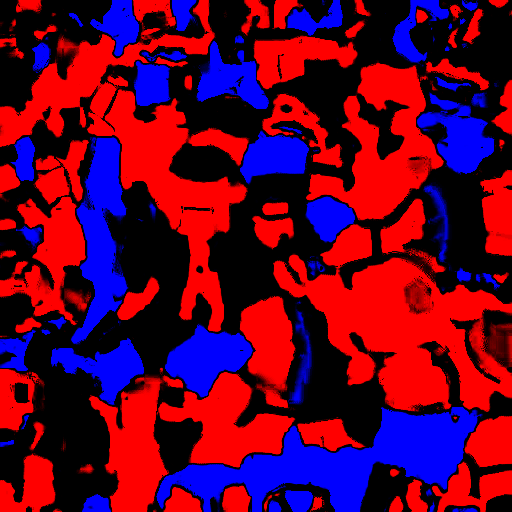
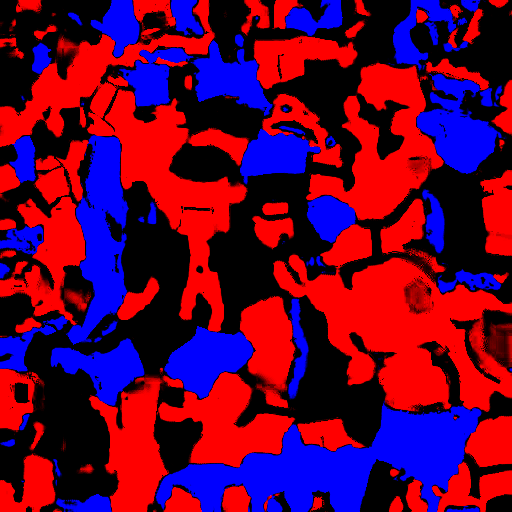
修复一些换肤色的表现细节

diff --git a/scripts/render-cartoon-skin-validation.py b/scripts/render-cartoon-skin-validation.py
@@ -1,0 +1,88 @@
+"""在独立后台 Blender 中审计和渲染，不切换正在编辑的场景。"""
+import bpy, sys, json, argparse
+import numpy as np
+from pathlib import Path
+from mathutils import Vector, Quaternion
+if not bpy.app.background:
+    raise RuntimeError('只允许在独立后台 Blender 中执行验证渲染。')
+parser=argparse.ArgumentParser(description='验证原色、深肤色、五种装备颜色和两个动作。')
+parser.add_argument('--workdir', type=Path, required=True)
+parser.add_argument('--stage', choices=('before','after'), default='after')
+parser.add_argument('--ids', nargs='+', type=int, default=[5,6,8,9,10,11,12])
+args=parser.parse_args(sys.argv[sys.argv.index('--')+1:])
+WORK=args.workdir.resolve()
+ROOT=Path(__file__).resolve().parents[1]
+stage=args.stage
+ids=args.ids
+for i in ids:
+    name=f'CartonSwimmer{i}'; folder=WORK/name
+    bpy.ops.wm.read_factory_settings(use_empty=True)
+    bpy.ops.import_scene.gltf(filepath=str(folder/(name+'.glb')))
+    mesh=next(o for o in bpy.context.scene.objects if o.type=='MESH')
+    rig=next(o for o in bpy.context.scene.objects if o.type=='ARMATURE')
+    scene=bpy.context.scene
+    scene.render.engine='CYCLES';scene.cycles.samples=4;scene.cycles.use_denoising=False
+    scene.render.resolution_x=600;scene.render.resolution_y=660;scene.render.resolution_percentage=100
+    scene.render.image_settings.file_format='PNG'
+    scene.world=bpy.data.worlds.new('验证背景');scene.world.use_nodes=True
+    scene.world.node_tree.nodes['Background'].inputs[0].default_value=(0.055,0.065,0.082,1)
+    scene.view_settings.view_transform='Standard';scene.view_settings.look='None'
+    camera=bpy.data.objects.new('验证相机',bpy.data.cameras.new('验证相机'));scene.collection.objects.link(camera);scene.camera=camera
+    camera.data.type='ORTHO';camera.data.ortho_scale=1.22
+    material=bpy.data.materials.new('验证材质');material.use_nodes=True
+    nodes=material.node_tree.nodes;nodes.clear();links=material.node_tree.links
+    tex=nodes.new('ShaderNodeTexImage');tex.interpolation='Linear'
+    emission=nodes.new('ShaderNodeEmission');output=nodes.new('ShaderNodeOutputMaterial')
+    links.new(emission.outputs[0],output.inputs[0])
+    # 对底图和遮罩分别做双线性采样，然后在线性空间执行实际换色公式。
+    base_path=folder/'base.png'
+    if not base_path.exists():base_path=next(folder.glob('base-source.*'))
+    base_image=bpy.data.images.load(str(base_path))
+    mask_image=bpy.data.images.load(str(folder/(name+'ColorMask.png' if stage=='before' else 'candidate.png')))
+    mask_image.colorspace_settings.name='Non-Color'
+    mask_node=nodes.new('ShaderNodeTexImage');mask_node.image=mask_image;mask_node.interpolation='Linear'
+    separate=nodes.new('ShaderNodeSeparateColor');links.new(mask_node.outputs[0],separate.inputs[0])
+    def math_node(op,left,right=None):
+        node=nodes.new('ShaderNodeMath');node.operation=op
+        for index,value in enumerate((left,right)):
+            if value is None:continue
+            if isinstance(value,(float,int)):node.inputs[index].default_value=value
+            else:links.new(value,node.inputs[index])
+        return node.outputs[0]
+    dot=nodes.new('ShaderNodeVectorMath');dot.operation='DOT_PRODUCT';dot.inputs[1].default_value=(.2126,.7152,.0722)
+    links.new(tex.outputs[0],dot.inputs[0])
+    lum=math_node('MINIMUM',math_node('DIVIDE',dot.outputs['Value'],.42),1.)
+    bright=math_node('MINIMUM',math_node('ADD',math_node('MULTIPLY',math_node('SQRT',lum),.76),.34),1.08)
+    gear_bright=math_node('ADD',math_node('MULTIPLY',bright,.1),.9)
+    ramp=nodes.new('ShaderNodeValToRGB');ramp.color_ramp.interpolation='EASE'
+    ramp.color_ramp.elements[0].position=.015;ramp.color_ramp.elements[1].position=.12
+    links.new(separate.outputs['Red'],ramp.inputs[0])
+    suit_scale=nodes.new('ShaderNodeVectorMath');suit_scale.operation='SCALE';links.new(gear_bright,suit_scale.inputs['Scale'])
+    skin_scale=nodes.new('ShaderNodeVectorMath');skin_scale.operation='SCALE';links.new(bright,skin_scale.inputs['Scale'])
+    def lin(rgb):return tuple(v/12.92 if v<=.04045 else ((v+.055)/1.055)**2.4 for v in [x/255 for x in rgb])
+    skin_scale.inputs[0].default_value=lin((91,61,45))
+    suit_mix=nodes.new('ShaderNodeMixRGB');skin_mix=nodes.new('ShaderNodeMixRGB')
+    links.new(ramp.outputs[0],suit_mix.inputs[0]);links.new(tex.outputs[0],suit_mix.inputs[1]);links.new(suit_scale.outputs[0],suit_mix.inputs[2])
+    links.new(separate.outputs['Blue'],skin_mix.inputs[0]);links.new(suit_mix.outputs[0],skin_mix.inputs[1]);links.new(skin_scale.outputs[0],skin_mix.inputs[2])
+    mesh.data.materials[0]=material
+    def render(tag,view):
+        camera.location={'front':(0,-3,.55),'back':(0,3,.55),'side':(3,0,.55),'threequarter':(2,-3,.8)}[view]
+        camera.rotation_euler=(Vector((0,0,.46))-camera.location).to_track_quat('-Z','Y').to_euler()
+        scene.render.filepath=str(folder/f'{stage}_{tag}_{view}.png');bpy.ops.render.render(write_still=True)
+    palettes=['deep'] if stage=='before' else ['deep','red','blue','yellow','purple','original']
+    for palette in palettes:
+        tex.image=base_image
+        suit_scale.inputs[0].default_value=lin({'deep':(24,199,216),'red':(240,20,20),'blue':(23,109,218),'yellow':(255,209,42),'purple':(139,77,255),'original':(255,255,255)}[palette])
+        links.new(tex.outputs[0] if palette=='original' else skin_mix.outputs[0],emission.inputs[0])
+        for view in ('front','back','side') if palette=='deep' else ('front',): render(palette,view)
+    if stage!='before':
+        tex.image=base_image;suit_scale.inputs[0].default_value=lin((24,199,216));links.new(skin_mix.outputs[0],emission.inputs[0])
+        for action in ('breaststroke','waving'):
+            data=json.loads((ROOT/f'assets/race/model-actions/tPose/Tpose_{action}.json').read_text())
+            sample=data['samples'][len(data['samples'])//2]
+            for bone in rig.pose.bones:
+                bone.rotation_mode='QUATERNION';bone.rotation_quaternion=Quaternion((1,0,0,0))
+            for bone,q in sample['rotations'].items():
+                if bone in rig.pose.bones: rig.pose.bones[bone].rotation_quaternion=Quaternion((q[3],*q[:3])).normalized()
+            bpy.context.view_layer.update();render(action,'threequarter')
+    print('完成',name,stage,flush=True)

diff --git a/scripts/repair-cartoon-skin-masks.py b/scripts/repair-cartoon-skin-masks.py
@@ -1,0 +1,107 @@
+"""依据底图颜色与表面位置修复皮肤覆盖，不对相邻 UV 岛做膨胀。"""
+from pathlib import Path
+import argparse
+import json
+import numpy as np
+from PIL import Image
+from scipy.ndimage import distance_transform_edt
+
+
+def smooth(a, b, x):
+    t = np.clip((x - a) / (b - a), 0, 1)
+    return t * t * (3 - 2 * t)
+
+
+def repair(work):
+    for i in (5,6,8,9,10,11,12):
+        folder=work/f'CartonSwimmer{i}'
+        base_path=folder/'base.png'
+        if not base_path.exists():
+            base_path=next(folder.glob('base-source.*'))
+        base=np.asarray(Image.open(base_path).convert('RGB'))/255.
+        original=np.asarray(Image.open(folder/f'CartonSwimmer{i}ColorMask.png').convert('RGBA'))
+        geometry=np.load(folder/'geometry.npz')
+        h,w=base.shape[:2]
+        if (w, h) != (512, 512) or original.shape != (h, w, 4):
+            raise RuntimeError(f'CartonSwimmer{i} 的底图或遮罩尺寸已变化，需重新审查参数。')
+        position=np.zeros((h,w,3));valid=np.zeros((h,w),bool);support=np.zeros((h,w))
+        for uv, tri in zip(geometry['uv'],geometry['triangles']):
+            p=uv*np.array([w,-h])+np.array([0,h])
+            lo=np.maximum(np.floor(p.min(0)).astype(int),0);hi=np.minimum(np.ceil(p.max(0)).astype(int),[w-1,h-1])
+            if np.any(hi<lo): continue
+            yy,xx=np.mgrid[lo[1]:hi[1]+1,lo[0]:hi[0]+1];q=np.stack([xx+.5,yy+.5],-1)
+            a,b,c=p;v0=b-a;v1=c-a;det=v0[0]*v1[1]-v0[1]*v1[0]
+            if abs(det)<1e-7:continue
+            rel=q-a
+            u=(rel[...,0]*v1[1]-rel[...,1]*v1[0])/det
+            v=(v0[0]*rel[...,1]-v0[1]*rel[...,0])/det
+            inside=(u>=0)&(v>=0)&(u+v<=1)
+            pts=geometry['vertices'][tri]
+            xyz=pts[0]+u[...,None]*(pts[1]-pts[0])+v[...,None]*(pts[2]-pts[0])
+            position[yy[inside],xx[inside]]=xyz[inside];valid[yy[inside],xx[inside]]=True
+            samples=original[yy[inside],xx[inside],2]/255.
+            if len(samples):support[yy[inside],xx[inside]]=float((samples>.7).mean())
+        distance,nearest=distance_transform_edt(~valid,return_indices=True)
+        if not valid.any():
+            raise RuntimeError(f'CartonSwimmer{i} 没有可用的 UV 覆盖。')
+        position[~valid]=position[tuple(nearest[:,~valid])]
+        support[~valid]=support[tuple(nearest[:,~valid])]
+        np.save(folder/'position.npy',position)
+        # 在 4 倍采样下计算覆盖，再按面积降采样，避免硬阈值留下锯齿。
+        base=np.asarray(Image.open(base_path).convert('RGB').resize((w*4,h*4),Image.Resampling.BILINEAR),dtype=np.float32)/255.
+        position=position.astype(np.float32).repeat(4,0).repeat(4,1)
+        support=support.astype(np.float32).repeat(4,0).repeat(4,1)
+        r,g,b=base.transpose(2,0,1);sat=(base.max(2)-base.min(2))/np.maximum(base.max(2),1e-5)
+        # 暖色皮肤的内部覆盖保持完整；灰白衣袜不因闭运算被染色。
+        low,high={5:(.12,.22),6:(.20,.28),8:(.16,.25),9:(.12,.22),10:(.10,.18),11:(.13,.23),12:(.08,.16)}[i]
+        strong=support>.65
+        skin=smooth(np.where(strong,.035,low),np.where(strong,.09,high),r-b)*smooth(.008,.038,r-g)*smooth(.005,.035,g-b)
+        skin*=smooth(.26,.48,r)
+        if i in (6,8):
+            skin*=smooth(.68,.79,r)
+        if i in (11,12):
+            skin*=np.where(strong,1,1-smooth(.47,.60,sat))
+        if i == 11:
+            # 此角色的指缝、耳部及袖口皮肤阴影偏橙，不能用装备的饱和度阈值排除。
+            arms=(np.abs(position[...,0])>.10)&(position[...,2]>.65)&(position[...,2]<.80)
+            peach=smooth(.07,.15,r-b)*smooth(.018,.055,r-g)*smooth(.008,.035,g-b)
+            peach*=smooth(.18,.29,b)*smooth(.35,.48,g)
+            skin=np.maximum(skin,peach*np.where(arms,1,smooth(.02,.18,support)))
+            arm_skin=smooth(.035,.07,r-b)*smooth(.008,.025,r-g)*smooth(.001,.02,g-b)*smooth(.25,.4,r)
+            skin=np.maximum(skin,arm_skin*arms)
+        if i == 12:
+            # 浅灰桃色指节和膝盖高光需要按已确认的裸露部位覆盖。
+            bare=((np.abs(position[...,0])>.34)&(position[...,2]>.64)&(position[...,2]<.77))|((position[...,2]>.205)&(position[...,2]<.31))
+            highlight=smooth(.016,.042,r-b)*smooth(.003,.016,r-g)*smooth(-.008,.008,g-b)
+            skin=np.maximum(skin,highlight*bare)
+        # 头部的棕色头发与肤色接近，采用既有高置信度肤色区域作为保护。
+        head=position[...,2]>.76
+        if i in (6,8):
+            skin[head]*=smooth(.73,.83,r[head])
+        # 皮肤内部使用确定覆盖，过渡仅留给接近真实边界的颜色。
+        skin=smooth(.18,.62,skin)
+        skin=np.asarray(Image.fromarray(skin.astype(np.float32)).resize((w,h),Image.Resampling.BOX))
+        result=original.copy();result[...,2]=np.uint8(skin*255+.5)
+        # 衣服的绿色误差不能在明确的暖色皮肤内部留下高对比碎点。
+        result[...,0][skin>.8]=0
+        Image.fromarray(result).save(folder/'candidate.png',optimize=True)
+        report = {
+            'character': f'CartonSwimmer{i}',
+            'size': [w, h],
+            'supersample': 4,
+            'changedBluePixels': int(np.count_nonzero(result[..., 2] != original[..., 2])),
+            'changedRedPixels': int(np.count_nonzero(result[..., 0] != original[..., 0])),
+            'greenUnchanged': bool(np.array_equal(result[..., 1], original[..., 1])),
+            'alphaUnchanged': bool(np.array_equal(result[..., 3], original[..., 3])),
+            'originalBytes': (folder/f'CartonSwimmer{i}ColorMask.png').stat().st_size,
+            'candidateBytes': (folder/'candidate.png').stat().st_size,
+        }
+        (folder/'repair-report.json').write_text(json.dumps(report, ensure_ascii=False, indent=2), encoding='utf-8')
+        print(i, '变化像素',int(np.any(result!=original,axis=2).sum()),'肤色覆盖',float(skin[valid].mean()))
+
+
+
+if __name__ == '__main__':
+    parser = argparse.ArgumentParser(description='生成卡通角色肤色修复候选，不写入运行时资产。')
+    parser.add_argument('--workdir', type=Path, required=True, help='Blender 审计导出的原始快照目录')
+    repair(parser.parse_args().workdir.resolve())

diff --git a/scripts/audit-cartoon-skin-masks.py b/scripts/audit-cartoon-skin-masks.py
@@ -1,0 +1,65 @@
+"""用独立后台 Blender 保存卡通角色原始快照和世界坐标 UV 审计。
+
+blender -b --python scripts/audit-cartoon-skin-masks.py -- --workdir tools/characters/skin-audit
+"""
+import argparse
+import json
+import shutil
+import struct
+import sys
+from pathlib import Path
+
+import bpy
+import numpy as np
+
+
+def audit(work):
+    if not bpy.app.background:
+        raise RuntimeError('此脚本只允许在独立后台 Blender 执行，以保护正在编辑的场景。')
+    root = Path(__file__).resolve().parents[1]
+    for number in (5, 6, 8, 9, 10, 11, 12):
+        name = f'CartonSwimmer{number}'
+        folder = work / name
+        folder.mkdir(parents=True, exist_ok=True)
+        # 旧快照绝不覆盖；后续修复始终以同一份原始遮罩为依据。
+        for suffix in ('.glb', 'ColorMask.png', '.glb.meta', 'ColorMask.png.meta'):
+            destination = folder / (name + suffix)
+            if not destination.exists():
+                shutil.copy2(root / 'assets/race/models' / destination.name, destination)
+        data = (folder / (name + '.glb')).read_bytes()
+        size = struct.unpack_from('<I', data, 12)[0]
+        document = json.loads(data[20:20 + size])
+        binary = data[28 + size:]
+        material = document['materials'][0]['pbrMetallicRoughness']
+        texture = document['textures'][material['baseColorTexture']['index']]
+        image = document['images'][texture['source']]
+        view = document['bufferViews'][image['bufferView']]
+        offset = view.get('byteOffset', 0)
+        suffix = '.png' if image['mimeType'] == 'image/png' else '.jpg'
+        (folder / ('base-source' + suffix)).write_bytes(binary[offset:offset + view['byteLength']])
+        bpy.ops.wm.read_factory_settings(use_empty=True)
+        bpy.ops.import_scene.gltf(filepath=str(folder / (name + '.glb')))
+        # 导入器可能创建用于骨骼显示的 Icosphere；它不是运行时蒙皮网格。
+        meshes = [o for o in bpy.context.scene.objects if o.type == 'MESH'
+                  and any(mod.type == 'ARMATURE' for mod in o.modifiers)]
+        rigs = [o for o in bpy.context.scene.objects if o.type == 'ARMATURE']
+        if len(meshes) != 1 or len(rigs) != 1 or len(meshes[0].data.materials) != 1:
+            raise RuntimeError(f'{name} 的网格、材质或骨架结构已变化，需要重新检查。')
+        mesh = meshes[0]
+        mesh.data.calc_loop_triangles()
+        uv = mesh.data.uv_layers.active.data
+        np.savez(
+            folder / 'geometry.npz',
+            vertices=np.array([list(mesh.matrix_world @ v.co) for v in mesh.data.vertices]),
+            triangles=np.array([list(t.vertices) for t in mesh.data.loop_triangles]),
+            uv=np.array([[list(uv[loop].uv) for loop in t.loops] for t in mesh.data.loop_triangles]),
+        )
+        print(name, '顶点', len(mesh.data.vertices), '三角形', len(mesh.data.loop_triangles),
+              '骨骼', len(rigs[0].data.bones), flush=True)
+
+
+if __name__ == '__main__':
+    parser = argparse.ArgumentParser(description='保存原始角色和肤色遮罩，不修改运行时资产。')
+    parser.add_argument('--workdir', type=Path, required=True)
+    arguments = sys.argv[sys.argv.index('--') + 1:] if '--' in sys.argv else []
+    audit(parser.parse_args(arguments).workdir.resolve())

diff --git a/docs/character-production/cartoon-skin-repair-20260905.zh.md b/docs/character-production/cartoon-skin-repair-20260905.zh.md
@@ -1,0 +1,52 @@
+# 卡通角色深肤色遮罩修复（2026-09-05）
+
+本次修复 `CartonSwimmer5/6/8/9/10/11/12ColorMask.png`，不涉及 MuscleMan。
+
+## 逐角色处理
+
+| 角色 | 检查和处理重点 | 遮罩大小，修复前 → 修复后 |
+| --- | --- | --- |
+| 逐浪少女（5） | 腰部、短裤与黑袜交界；清理闭运算造成的肤色外溢 | 96,181 → 95,278 字节 |
+| 跃浪少女（6） | 米白内搭、白袜边界；补全手部肤色，同时保护棕发和粉色配件 | 125,900 → 84,821 字节 |
+| 蛙跃潮童（8） | 衣领、袖口、袜口；去除皮肤内部误入的装备色碎点 | 157,560 → 121,724 字节 |
+| 霓光灵猫（9） | 白色肩部衣片、腰部和白袜交界；补全裸露皮肤 | 58,009 → 53,581 字节 |
+| 青影忍浪（10） | 脸部、双臂与小腿的浅色碎斑；保留护臂、手套、衣服 | 120,696 → 93,963 字节 |
+| 疾风浪客（11） | 裸臂、指缝、腿部碎斑；分离偏橙皮肤阴影与橙色装备 | 91,298 → 53,964 字节 |
+| 绿电潮童（12） | 浅灰桃色指节、膝盖高光漏染；收紧裤脚和袜口覆盖 | 92,087 → 89,031 字节 |
+
+合计由 741,731 降至 592,362 字节，减少 149,369 字节（约 146 KiB）。这是源 PNG 大小，不能直接当作构建包或显存节省。
+
+## 方法和边界
+
+- 在独立后台 Blender 中读取原始 GLB，以蒙皮表面世界坐标、UV 三角形内原遮罩的高置信度覆盖，辅助识别皮肤。
+- 皮肤内部补足覆盖，交界处按照各角色底图的色差识别；不对整张图做膨胀、闭运算或模糊，不跨相邻 UV 岛填色。
+- 对米白衣袜、棕发、橙色装备分别保护。11、12 的裸露部位例外来自本次实际模型检查，不能直接套用到其他模型或新的比例。
+- 使用 4 倍采样计算颜色覆盖，按面积降采样回 512×512；没有增加运行时纹理分辨率。
+- 保留 G 通道和 Alpha。R 通道仅清除明确皮肤内的误染，主要修改 B 肤色通道。
+- 7 个 GLB、底图、骨骼、权重、UV、材质、动作和所有既有 `.meta` 文件均保持原字节内容。每个角色仍为 1 个运行时网格、1 个材质、41 根骨骼。
+- 未修改 TypeScript 或 effect，不增加帧更新、纹理采样或材质实例。联机与单机使用同一套静态资源；无新增同步状态和结果差异。
+
+## 工具及复查
+
+原始快照、候选、审计报告及渲染保存在本机 `tools/characters/skin-repair-20260905/`，此目录受 Git 忽略。复现本次结果应使用其中的原始遮罩；不要用修复后的遮罩替代原始输入反复迭代。
+
+下面的工具只生成快照、候选和验证图，不会写入 `assets`：
+
+```powershell
+& 'F:/blender/blender.exe' --factory-startup -b --python scripts/audit-cartoon-skin-masks.py -- --workdir tools/characters/skin-repair-20260905
+python scripts/repair-cartoon-skin-masks.py --workdir tools/characters/skin-repair-20260905
+& 'F:/blender/blender.exe' --factory-startup -b --python scripts/render-cartoon-skin-validation.py -- --workdir tools/characters/skin-repair-20260905 --stage before
+& 'F:/blender/blender.exe' --factory-startup -b --python scripts/render-cartoon-skin-validation.py -- --workdir tools/characters/skin-repair-20260905 --stage after
+```
+
+普通 Python 修复工具依赖 NumPy、SciPy、Pillow；审计与渲染脚本使用 Blender 自带 Python。更换 GLB 或原始遮罩后必须重新逐角色检查，不得无条件覆盖运行时资产。
+
+已完成：
+
+- 原色与深肤色下的正、背、侧视图检查；深肤色搭配青、红、蓝、黄、紫 5 种装备色；蛙泳和挥手动作采样检查。
+- 验证材质分别采样底图和遮罩，复现运行时线性空间亮度、装备覆盖阈值和肤色混合；离线渲染用于排查表面误染，不等同于完整 Cocos 渲染或 ASTC 真机结果。
+- 通过已运行的 Creator 本地资源接口，只重新导入 7 张遮罩；没有启动或重启编辑器，没有编辑器截图。7 份 library 导入 PNG 的 SHA-256 均与最终源文件相同。
+- `npm run textures:fix`、`npm run textures:check` 通过；压缩预设与无 mip 采样策略保持原样。
+- `npm run test:characters`：13 项通过；既有 `test_green_recolor_mask.py`：4 项通过。
+
+尚未进行 iOS / Android 微信真机视觉检查。后续应重点确认 ASTC 压缩下的衣袜交界和缩小显示效果。
